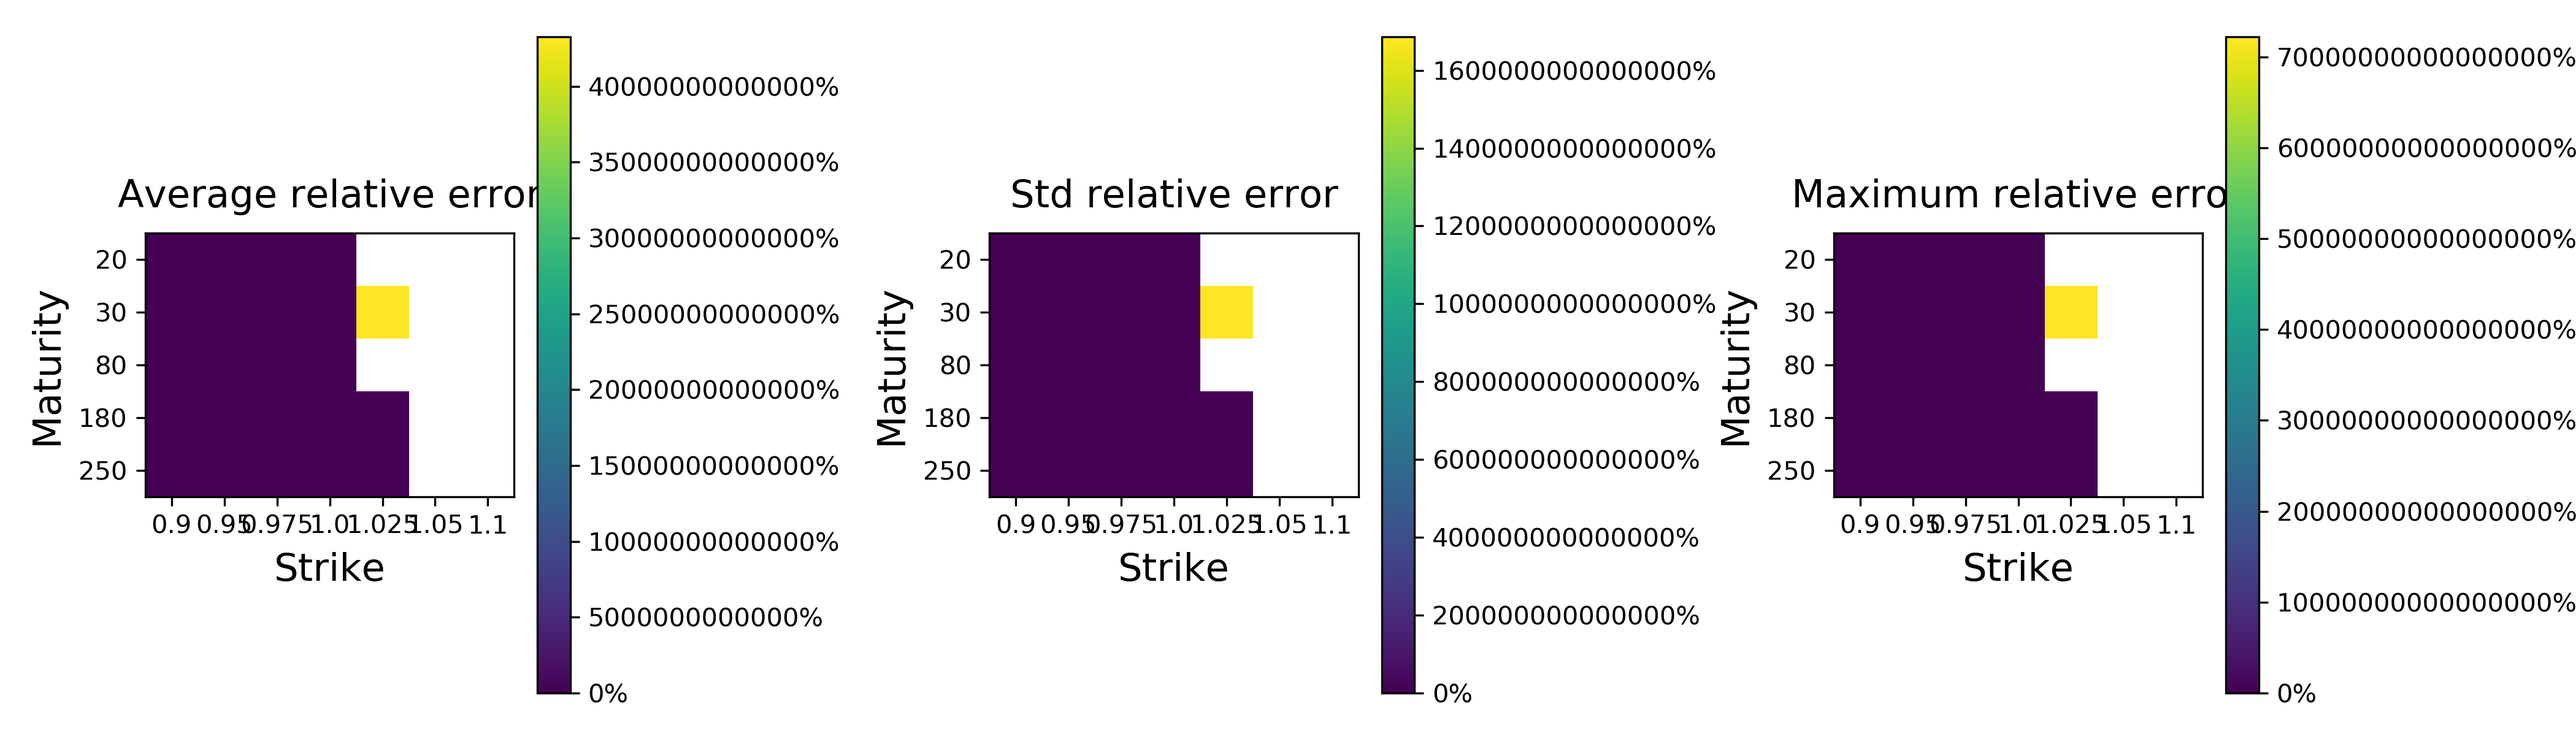
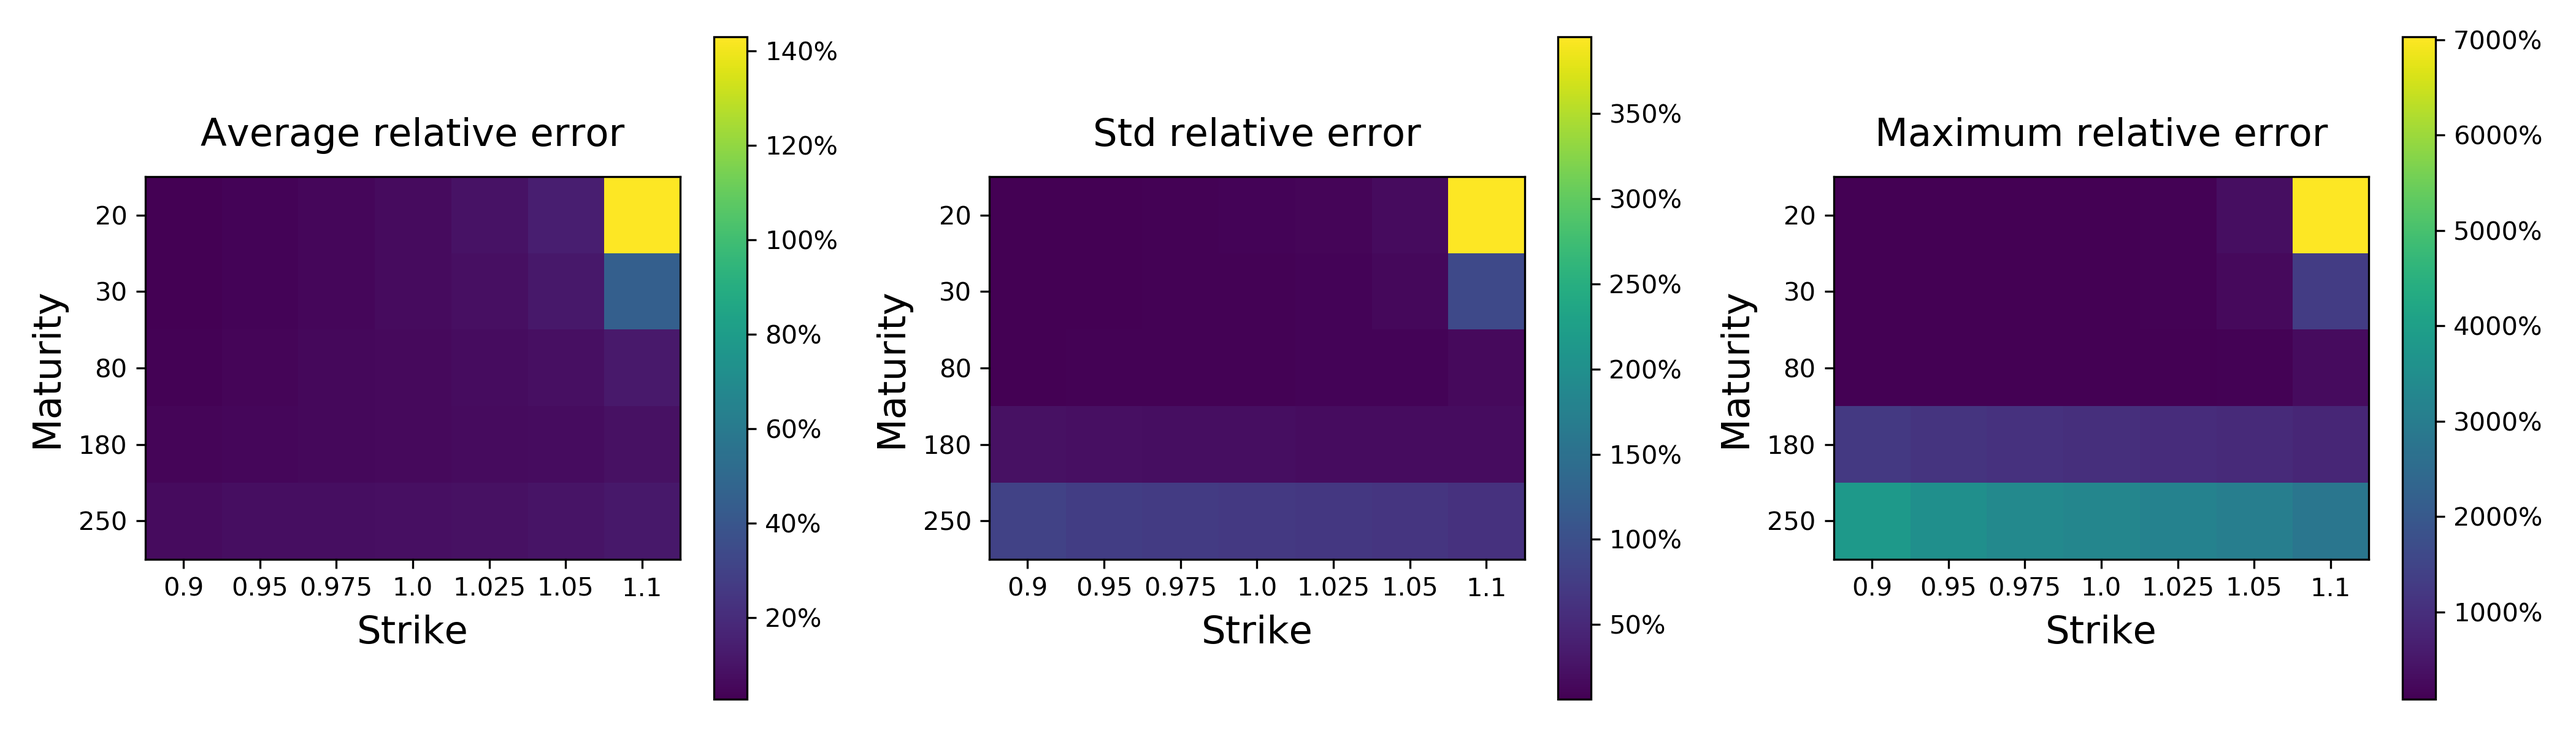
up

diff --git a/Python_Code/help_fun.py b/Python_Code/help_fun.py
@@ -6,7 +6,6 @@ import hngoption as hng
 #import py_vollib.black_scholes.implied_volatility as vol!
 from calcbsimpvol import calcbsimpvol 
 <<<<<<< HEAD
-=======
 
 def data_generator(sz_alpha,sz_beta,sz_gamma,sz_omega,K,Maturity,dt=1,r=0,value=1,form=1):
     szenario_data =[]
@@ -32,8 +31,6 @@ def data_generator(sz_alpha,sz_beta,sz_gamma,sz_omega,K,Maturity,dt=1,r=0,value=
         return szenario_data,szenarios
     
 
-
->>>>>>> b123f3a1a580e6307871809cfe13c1857edc4742
 def HNG_MC(alpha, beta, gamma, omega, d_lambda, S, K, rate, T, dt, PutCall = 1, num_path = int(1e4), 
            risk_neutral = True, Variance_specs = "unconditional",output="1"):
     """
@@ -129,7 +126,6 @@ def HNG_MC_simul(alpha, beta, gamma, omega, d_lambda, S, K, rate, T, dt, PutCall
         under P: alpha,beta,gamma,omega,d_lambda
         under Q: alpha,beta,gamma_star,omega 
     Underlying:
-        S starting value, K np.array of Strikes, dt Timeshift, T np.array of maturities in dt, r riskfree rate in dt
         S starting value, K np.array of Strikes, dt Timeshift, T np.array of maturities in dt, r riskfree rate for dt
     Function Parameters:
         Putcall: option type (1=call,-1=put,2=both)
@@ -166,20 +162,14 @@ def HNG_MC_simul(alpha, beta, gamma, omega, d_lambda, S, K, rate, T, dt, PutCall
     z = np.random.normal(size=(num_path,T_max+1))
 
     # Monte Carlo
-    for t in np.arange(dt,T_max+dt,dt):
     for t in np.arange(1,T_max+1,1):
         if risk_neutral:
-            h[:,t] = omega+beta*h[:,t-dt]+alpha*(z[:,t-dt]-gamma*np.sqrt(h[:,t-dt]))**2
-            lnS[:,t] = lnS[:,t-dt]+r-0.5*h[:,t]+np.sqrt(h[:,t])*z[:,t]
             h[:,t] = omega+beta*h[:,t-1]+alpha*(z[:,t-1]-gamma*np.sqrt(h[:,t-1]))**2
             lnS[:,t] = lnS[:,t-1]+r-0.5*h[:,t]+np.sqrt(h[:,t])*z[:,t]
         else:
-            h[:,t] = omega+beta*h[:,t-dt]+alpha*(z[:,t-dt]-gamma*np.sqrt(h[:,t-dt]))**2
-            lnS[:,t] = lnS[:,t-dt]+r+d_lambda*h[:,t]+np.sqrt(h[:,t])*z[:,t]
             h[:,t] = omega+beta*h[:,t-1]+alpha*(z[:,t-1]-gamma*np.sqrt(h[:,t-1]))**2
             lnS[:,t] = lnS[:,t-1]+r+d_lambda*h[:,t]+np.sqrt(h[:,t])*z[:,t]
     matS = np.exp(lnS[:,T])
-    
     
     # Output =================================================================
     # Prices
@@ -190,7 +180,7 @@ def HNG_MC_simul(alpha, beta, gamma, omega, d_lambda, S, K, rate, T, dt, PutCall
     else:
         price_call = np.zeros((m,n))
         price_put = np.zeros((m,n))
-        
+      
     for t in range(m):
         S_t = matS[:,t]
         if PutCall==1: # Call
@@ -205,19 +195,15 @@ def HNG_MC_simul(alpha, beta, gamma, omega, d_lambda, S, K, rate, T, dt, PutCall
     if output==1:
         return price
     elif (output==0 or output==2):
-        T = T/252
         T = T*dt #normalisation to yearly basis
         K_tmp,tau = np.meshgrid(K.reshape((n,1)),T.reshape((m,1)))
         if PutCall==1 or PutCall==-1:
-            vola = calcbsimpvol(dict(cp=np.asarray(PutCall), P=price, S=np.asarray(S), K=K_tmp, tau=tau, r=np.asarray(rate*252), q=np.asarray(0)))
             vola = calcbsimpvol(dict(cp=np.asarray(PutCall), P=price, S=np.asarray(S), K=K_tmp, tau=tau, r=np.asarray(rate/dt), q=np.asarray(0)))
             if output==0:
                 return vola
             else:
                 return price,vola
         elif PutCall==2:
-            vola_call = calcbsimpvol(dict(cp=np.asarray(1), P=price_call, S=np.asarray(S), K=K_tmp, tau=tau, r=np.asarray(rate*252), q=np.asarray(0)))
-            vola_put = calcbsimpvol(dict(cp=np.asarray(-1), P=price_put, S=np.asarray(S), K=K_tmp, tau=tau, r=np.asarray(rate*252), q=np.asarray(0)))
             vola_call = calcbsimpvol(dict(cp=np.asarray(1), P=price_call, S=np.asarray(S), K=K_tmp, tau=tau, r=np.asarray(rate/dt), q=np.asarray(0)))
             vola_put = calcbsimpvol(dict(cp=np.asarray(-1), P=price_put, S=np.asarray(S), K=K_tmp, tau=tau, r=np.asarray(rate/dt), q=np.asarray(0)))
             vola = (vola_call,vola_put)

diff --git a/Python_Code/MonteCarlo_L.py b/Python_Code/MonteCarlo_L.py
@@ -31,7 +31,8 @@ l = 0
 d_lambda = 0
 vola_closed = np.zeros((len(Maturity),len(K)))
 
-for i in range(int(50e1)):
+Nsim = int(1)
+for i in range(Nsim):
     print(i)
     alpha = 1
     beta = 1
@@ -56,7 +57,7 @@ for i in range(int(50e1)):
                                                      beta+alpha*gamma_star**2, MC_diff]).reshape((1,6)), vola.reshape((1,vola.shape[0]*vola.shape[1]))),axis=1))   
                                
 #szenario_data_1 = np.asarray(szenario_data).reshape((int(4e4),40)) 
-szenario_data_2 = np.asarray(szenario_data).reshape((int(50e1),41))
+szenario_data_2 = np.asarray(szenario_data).reshape((Nsim,41))
 mean_diff = np.mean(szenario_data_2[:,5])
 max_diff = np.max(szenario_data_2[:,5])
 #np.save('data', szenario_data_1)

diff --git a/Python_Code/NN1.py b/Python_Code/NN1.py
@@ -15,7 +15,9 @@ import matplotlib.ticker as mtick
 #strikes=np.array([0.5,0.6,0.7,0.8,0.9,1.0,1.1,1.2,1.3,1.4,1.5 ])
 #maturities=np.array([0.1,0.3,0.6,0.9,1.2,1.5,1.8,2.0 ])
 data = np.load('data.npy')
-
+data = data[(data[:,4:]>1e-4).all(axis=1)]
+#data1 = data[(data!=0).all(axis=1)]
+#np.count_nonzero(data1)
 Nparameters = 4
 maturities = np.array([20, 30, 80, 180, 250])
 strikes = np.array([0.9, 0.95, 0.975, 1, 1.025, 1.05, 1.1])
